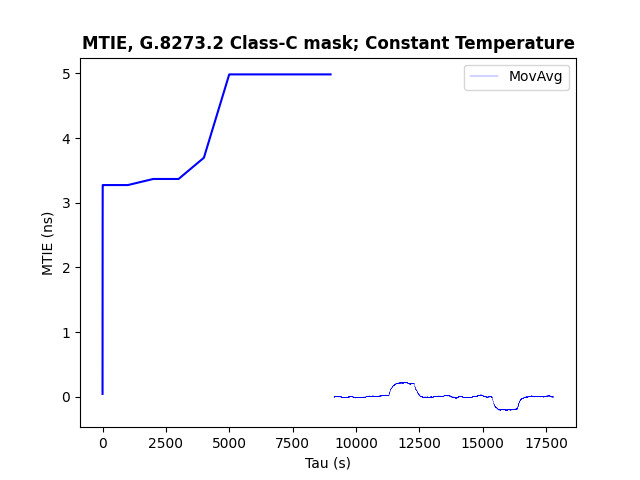
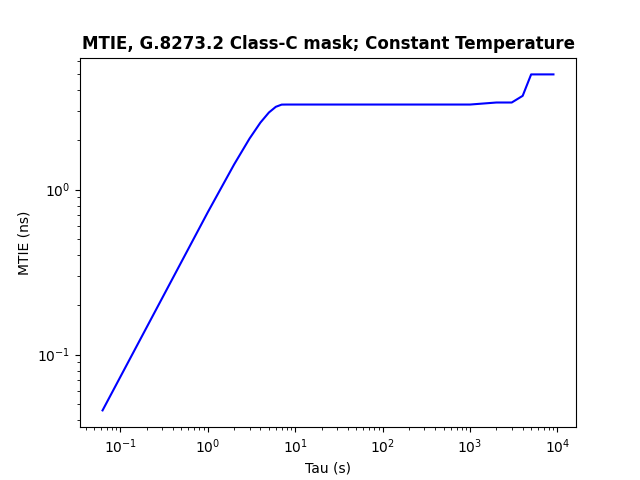
updates for tdev amd mtie

diff --git a/collection_tools/helpers/ngen/preprocess.py b/collection_tools/helpers/ngen/preprocess.py
@@ -100,12 +100,13 @@ def run(df, max_allowed_transient_period):
         update_rate / 2
     )  # the critical frequency for digital filters w is normalized from 0 to 1 where 1 is Nyquist freqency.
     btype = "low"  # band type is type of filter
-    fiorder = 5  # the order of the filter
+    fiorder = 1  # the order of the filter
     analog = False  # it is always a digital filter
     output = "ba"  # type of output: b numerator coefficient vector and a is denominator coefficient vector
 
     b, a = butter(fiorder, w, btype, analog, output)
 
     lpf_signal = filtfilt(b, a, input_signal)
+    lpf_signal = lpf_signal[max_allowed_transient_period : len(lpf_signal)]
 
     return lpf_signal, update_rate, s2_count

diff --git a/collection_tools/helpers/ngen/process.py b/collection_tools/helpers/ngen/process.py
@@ -199,6 +199,8 @@ def calculate_const_te(
 
 
 def plot_mtie(mtie_taus, mtie_devs):
+    plt.figure()
+    plt.axes(xscale="log", yscale="log")
     plt.plot(mtie_taus, mtie_devs, color="blue"),
     plt.title(
         "MTIE, G.8273.2 Class-C mask; Constant Temperature", fontsize=12, weight="bold"
@@ -252,6 +254,8 @@ def calculate_mtie(
 
 
 def plot_tdev(tdev_taus, tdev_devs):
+    plt.figure()
+    plt.axes(xscale="log", yscale="log")
     plt.plot(tdev_taus, tdev_devs, color="blue"),
     plt.title(
         "TDEV, G.8273.2 Class-C mask; Constant Temperature", fontsize=12, weight="bold"

diff --git a/collection_tools/helpers/ngen/README.md b/collection_tools/helpers/ngen/README.md
@@ -107,3 +107,5 @@ See some preliminary Noise Generation plots by using `-p True`:
 
 ![Time Error](fig/g82732_time_error.png)
 ![Constant Time Error](fig/g82732_constant_time_error.png)
+![Maximum Time Interval Error](fig/g82732_mtie.png)
+![Time Deviation](fig/g82732_tdev.png)
